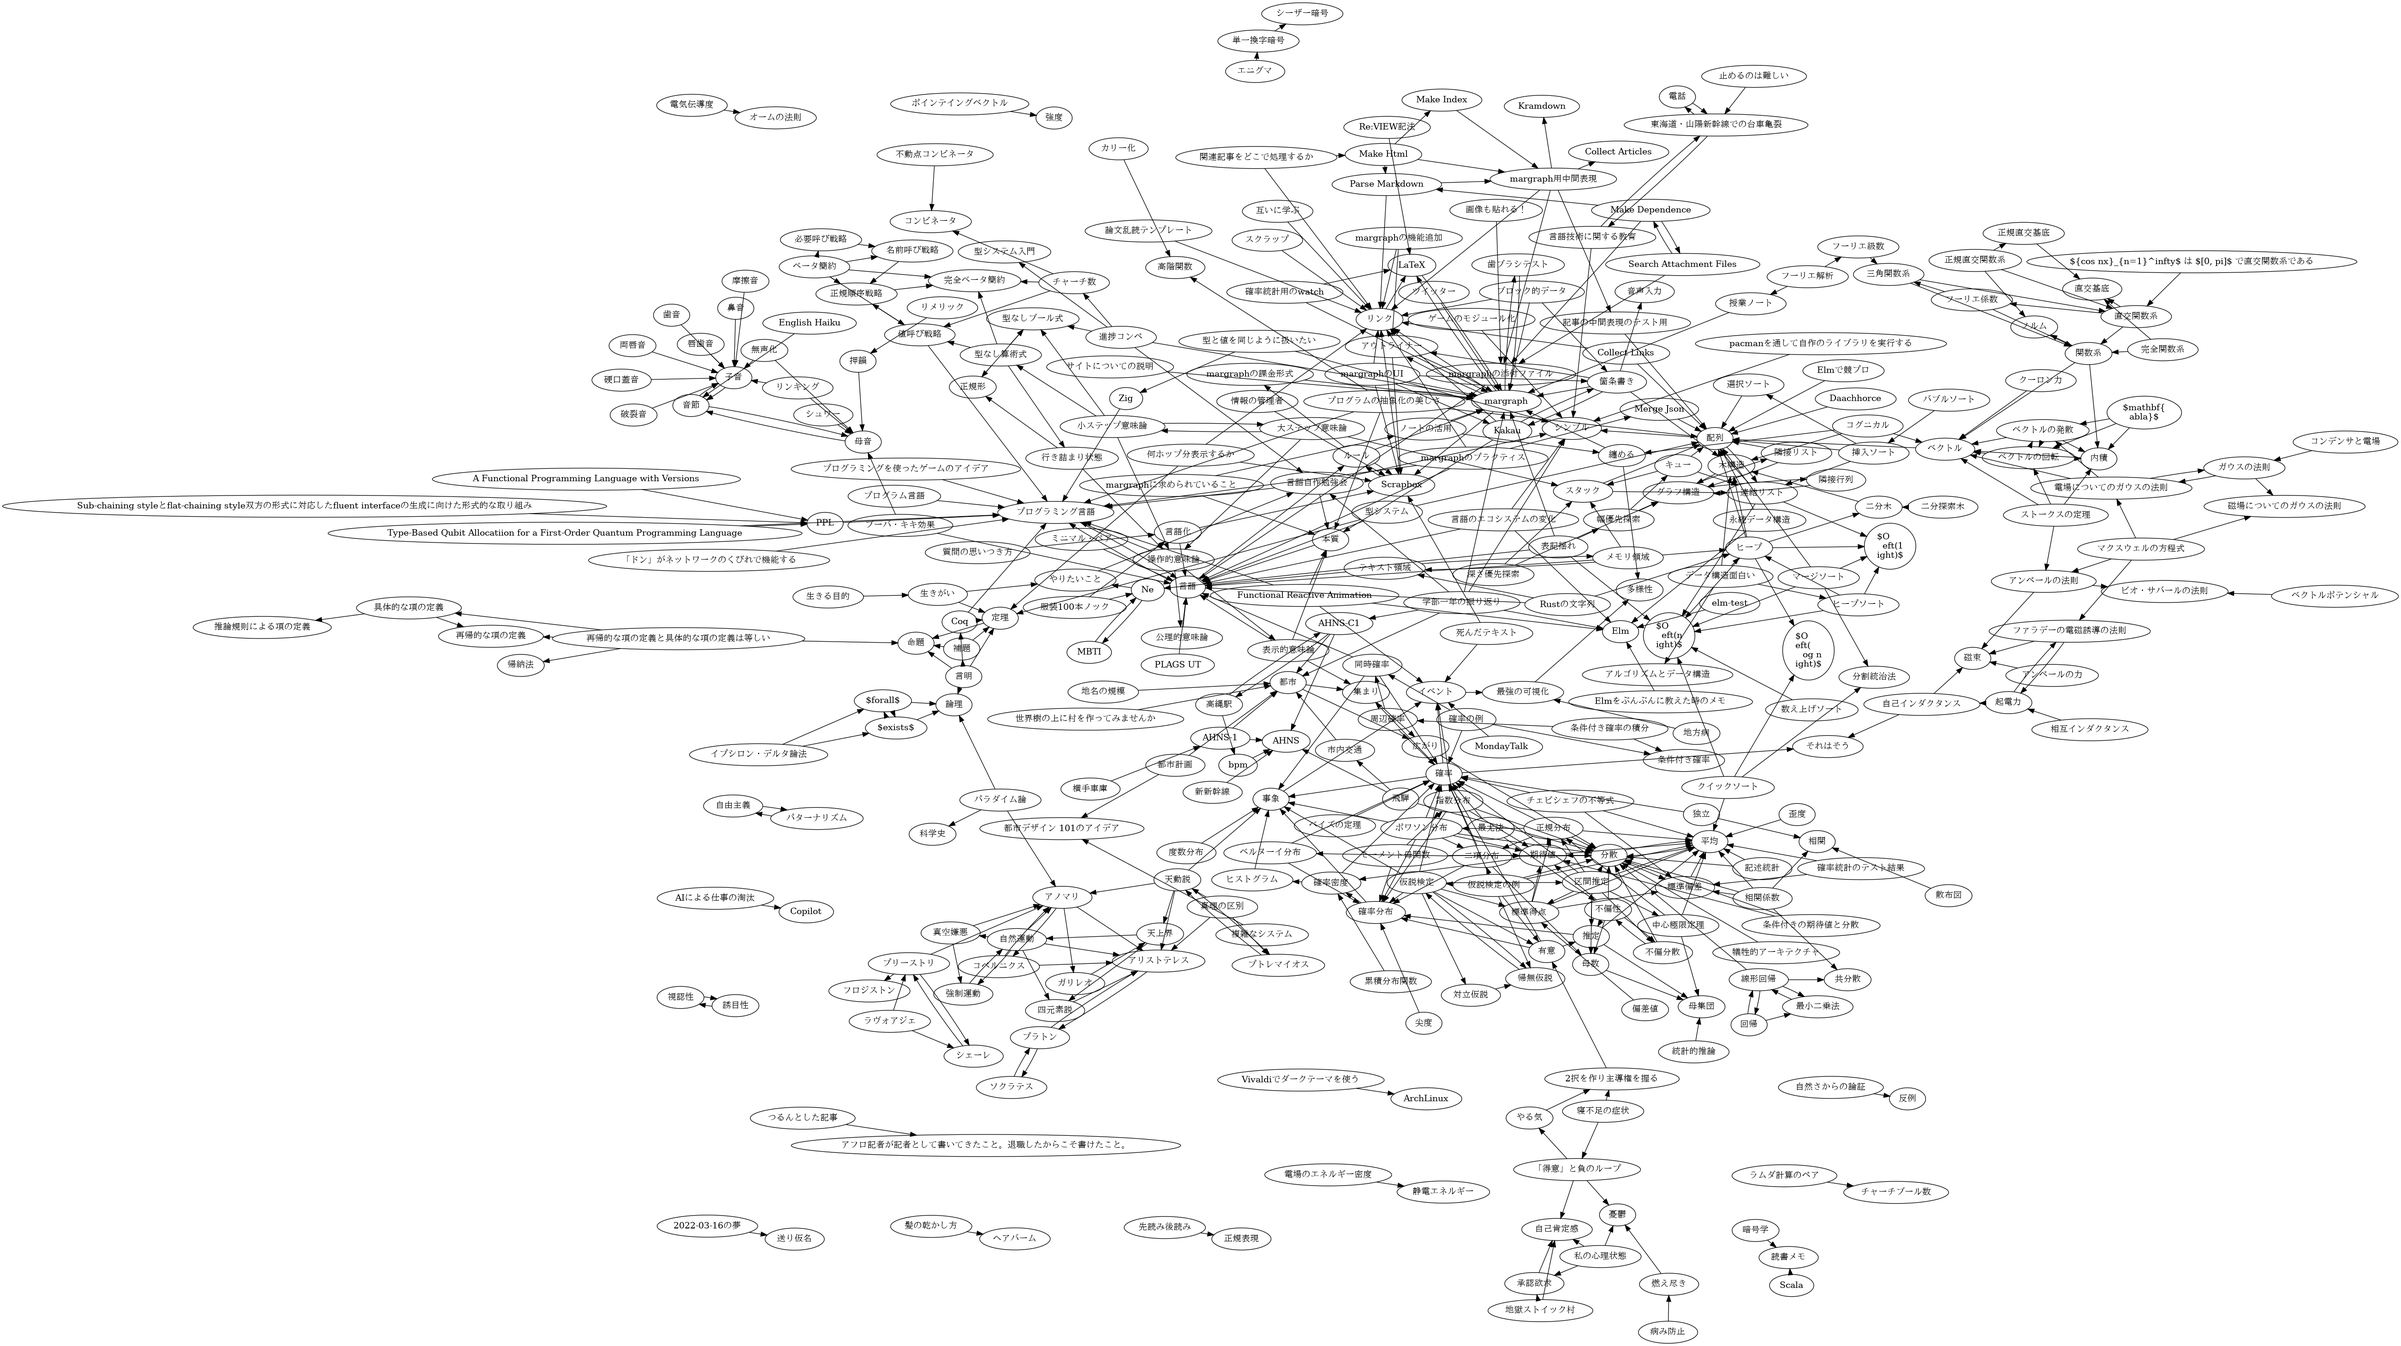
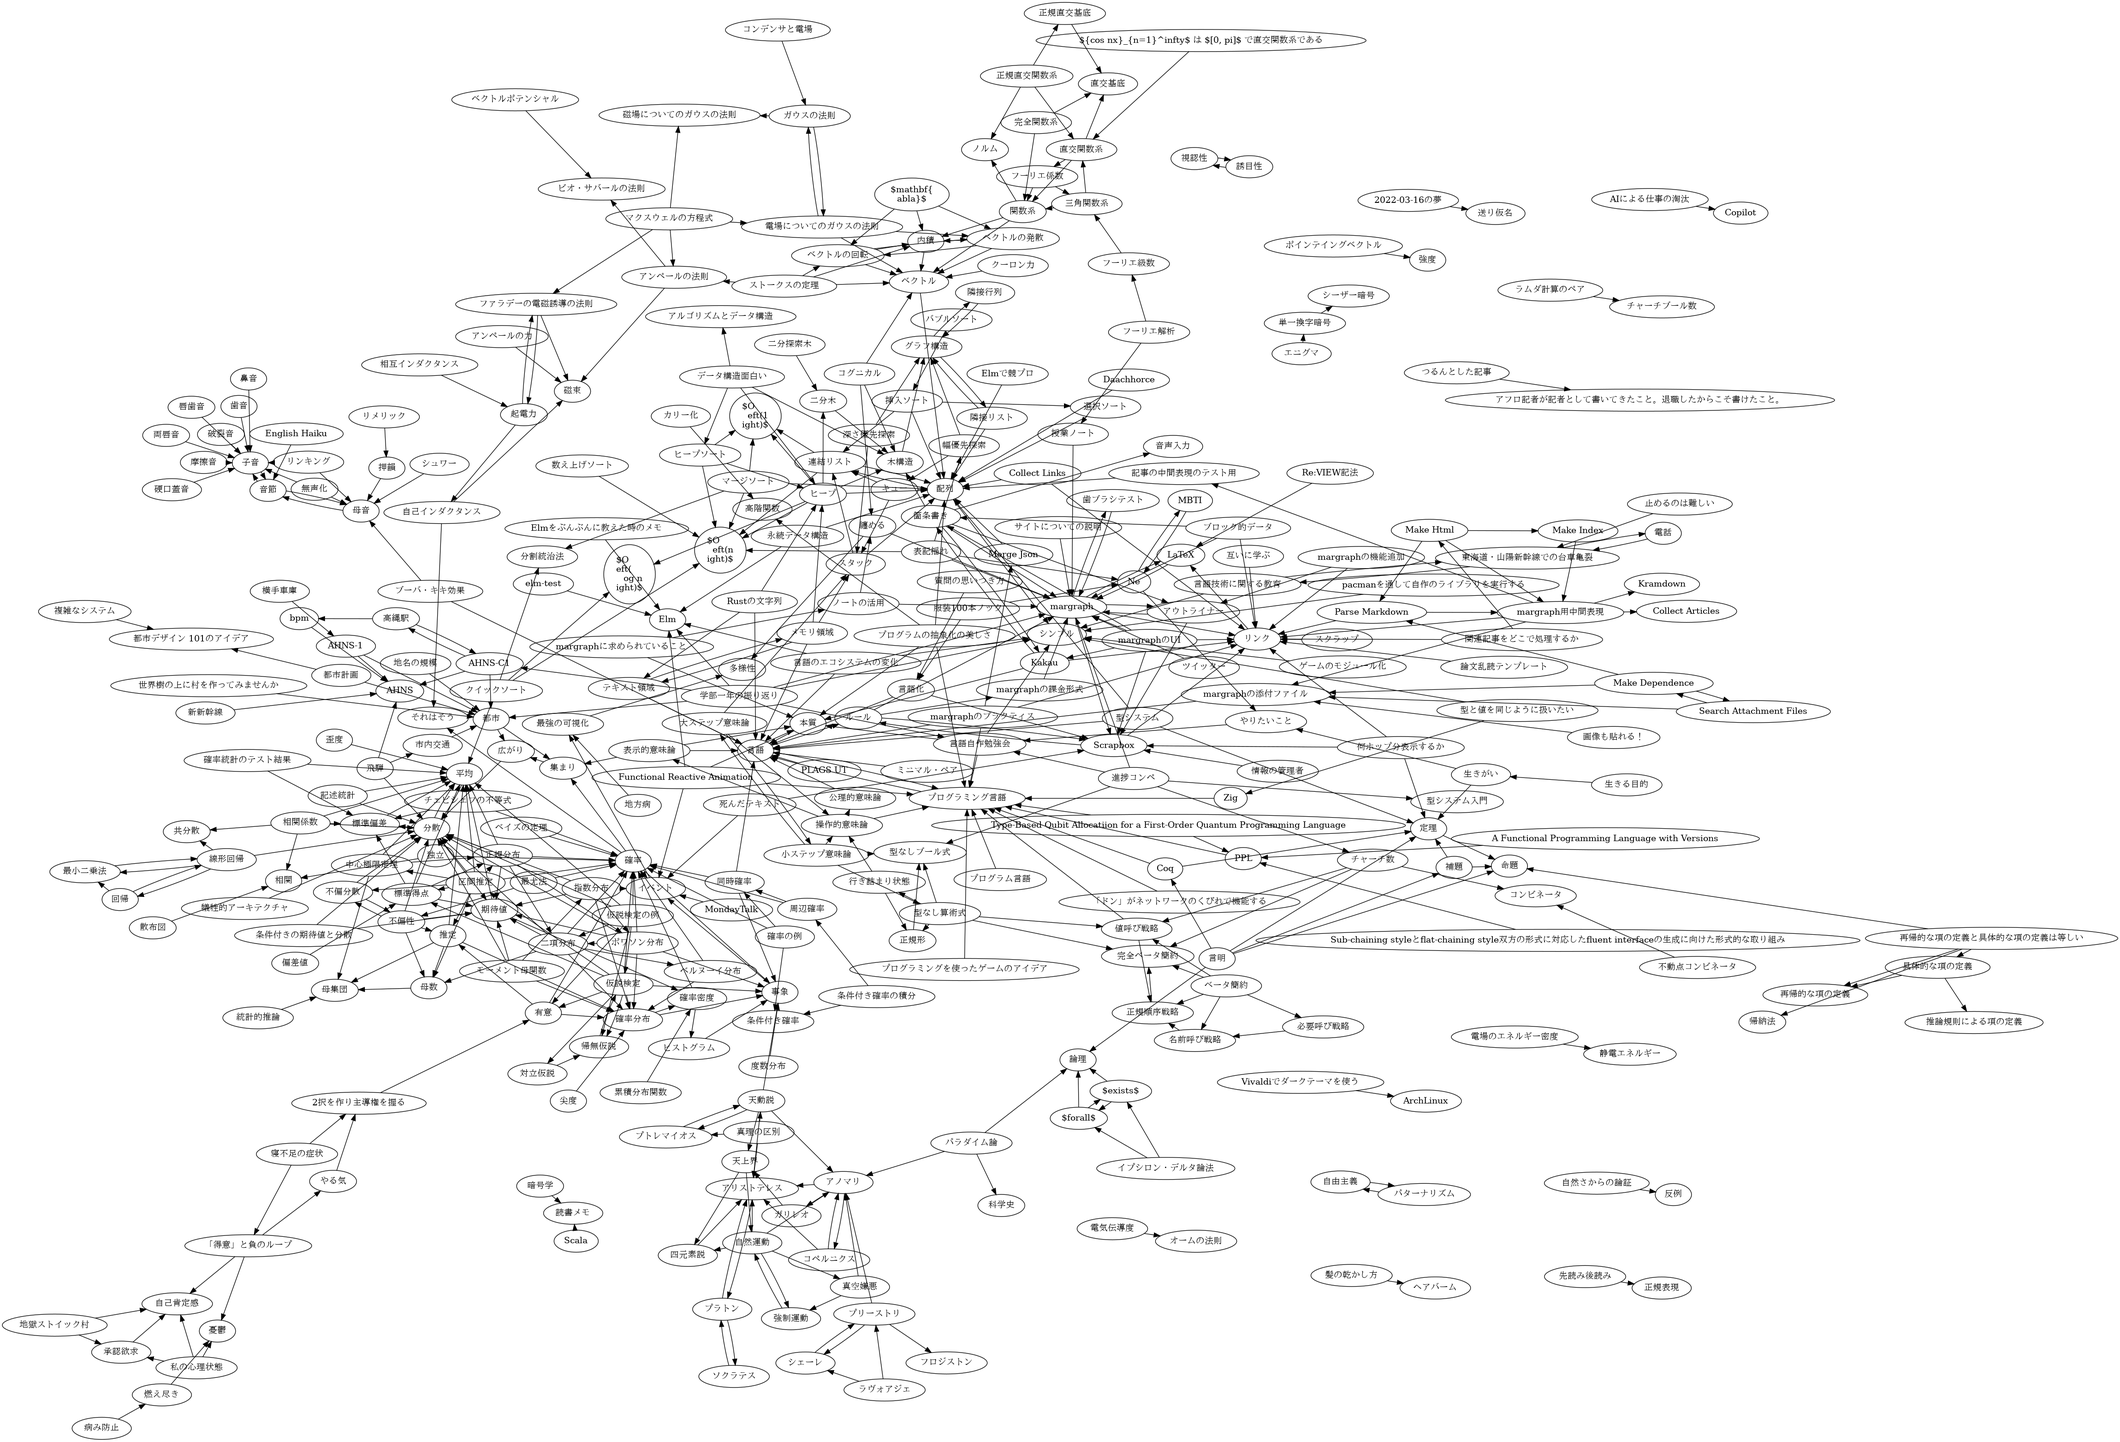
deploy: 2fca6c293e76e9450db2f3d024d4b272a923cc58

diff --git a/other/margraph-edit.html b/other/margraph-edit.html
@@ -7,7 +7,7 @@
     <link rel="stylesheet" href="https://cdn.jsdelivr.net/npm/bootstrap-dark-5@1.1.3/dist/css/bootstrap-nightfall.min.css" media="(prefers-color-scheme: dark)">
     <link rel="stylesheet" href="https://cdnjs.cloudflare.com/ajax/libs/highlight.js/11.3.1/styles/base16/ashes.min.css">
     <link rel="stylesheet" href="../style.css" type="text/css">
-    <title>Re:VIEW記法</title>
+    <title>margraphで編集したときに自動で反映するワンライナー</title>
     <meta NAME="robots" CONTENT="noindex,nofollow">
   </head>
   <body>
@@ -18,30 +18,32 @@
           
             <li class="breadcrumb-item"><a href="../index.html">margraph</a></li>
           
-            <li class="breadcrumb-item"><a href="../scraps/index.html">scraps</a></li>
+            <li class="breadcrumb-item"><a href="../other/index.html">other</a></li>
           
-          <li class="breadcrumb-item">Re:VIEW記法</li>
+          <li class="breadcrumb-item">margraphで編集したときに自動で反映するワンライナー</li>
         </ol>
       </div>
     </nav>
 
     <article class="container" style="max-width: 40em;">
 
-      <h1>Re:VIEW記法</h1>
+      <h1>margraphで編集したときに自動で反映するワンライナー</h1>
 
       
         <div class="contents">
         
             
-              <div>https://github.com/kmuto/review/blob/master/doc/format.ja.md</div>
+              <pre><code class="language-bash">dir=$(pwd); while true; do list=$(inotifywait . -e modify -q | awk '{print($3)}' | sed -r '$a index.md' | sed -r 's/(.+).md/public\/math\/fourier\/\1.html/' | sed -z -e 's/\n/ /'); cd ../../..; make -j $(echo $list); cd $dir; done
+</code></pre>
             
           
             
-              <div>本を作るための記法。Markdownに似た感じ。</div>
-            
-          
-            
-              <div>TeXや<a href="../other/latex.html">LaTeX</a>の機能をMarkdownの基本機能に追加したような感じ。</div>
+              <div><ul>
+  <li>inotifywaitで変更を監視して、それに合わせてmakeを実行する</li>
+  <li>パスの指定が雑だけど許して</li>
+  <li>シェルのワンライナー</li>
+</ul>
+</div>
             
           
         </div>
@@ -60,19 +62,19 @@
             <div class="col">
               
                 前の記事<br />
-                <a href="../scraps/question.html">質問の思いつき方</a>
+                <a href="../other/latex.html">LaTeX</a>
               
             </div>
             <div class="col">
               
                 目次<br />
-                <a href="../scraps/index.html">scraps</a>
+                <a href="../other/index.html">other</a>
               
             </div>
             <div class="col">
               
                 次の記事<br />
-                <a href="../scraps/sacrificial-architecture.html">犠牲的アーキテクチャ</a>
+                <a href="../other/miso-shiru.html">みそ汁</a>
               
             </div>
           </div>
@@ -81,43 +83,13 @@
 
       <div class="d-flex flex-row-reverse">
         
-          <button type="button" class="btn btn-outline-primary btn-sm" onclick="window.location.href='https://github.com/soukouki/margraph/edit/master/src/scraps/review.md';">Edit</button>
+          <button type="button" class="btn btn-outline-primary btn-sm" onclick="window.location.href='https://github.com/soukouki/margraph/edit/master/src/other/margraph-edit.md';">Edit</button>
         
         
       </div>
 
       
       <div class="link-network">
-        
-          <div class="row flex-nowrap overflow-auto">
-            <div class="col-4">
-              <div class="card h-100">
-                <div class="card-body">
-                  <h5 class="card-title fs-6"><a href="../other/latex.html">LaTeX</a></h5>
-                  <p class="card-text">- $\LaTeX$ 関連のメモ - 式の前後には空白を入れる...</p>
-                </div>
-              </div>
-            </div>
-            
-              <div class="col-4">
-                <div class="card h-100">
-                  <div class="card-body">
-                    <h5 class="card-title fs-6"><a href="../margraph/01-note.html">margraph</a></h5>
-                    <p class="card-text">named by sizumita - Scrapboxがgo...</p>
-                  </div>
-                </div>
-              </div>
-            
-              <div class="col-4">
-                <div class="card h-100">
-                  <div class="card-body">
-                    <h5 class="card-title fs-6"><a href="../margraph/margraph-junban.html">リンク</a></h5>
-                    <p class="card-text">- コードブロック中ではリンクしない方がいい   - LaTe...</p>
-                  </div>
-                </div>
-              </div>
-            
-          </div>
         
       </div>
       

diff --git a/other/latex.html b/other/latex.html
@@ -79,7 +79,7 @@
             <div class="col">
               
                 次の記事<br />
-                <a href="../other/miso-shiru.html">みそ汁</a>
+                <a href="../other/margraph-edit.html">margraphで編集したときに自動で反映するワンライナー</a>
               
             </div>
           </div>
@@ -360,18 +360,6 @@
                   </div>
                 </div>
               </div>
-            
-          </div>
-        
-          <div class="row flex-nowrap overflow-auto">
-            <div class="col-4">
-              <div class="card h-100">
-                <div class="card-body">
-                  <h5 class="card-title fs-6"><a href="../math/probability-statistics/-watch.html">確率統計用のwatch</a></h5>
-                  <p class="card-text">- watchコマンドで、ファイルを編集した直後にブラウザで見...</p>
-                </div>
-              </div>
-            </div>
             
           </div>
         

diff --git a/margraph/01-note.html b/margraph/01-note.html
@@ -400,18 +400,6 @@
             <div class="col-4">
               <div class="card h-100">
                 <div class="card-body">
-                  <h5 class="card-title fs-6"><a href="../math/probability-statistics/-watch.html">確率統計用のwatch</a></h5>
-                  <p class="card-text">- watchコマンドで、ファイルを編集した直後にブラウザで見...</p>
-                </div>
-              </div>
-            </div>
-            
-          </div>
-        
-          <div class="row flex-nowrap overflow-auto">
-            <div class="col-4">
-              <div class="card h-100">
-                <div class="card-body">
                   <h5 class="card-title fs-6"><a href="../other/gather.html">纏める</a></h5>
                   <p class="card-text">- 多様性のあるものを集めて使えるようにすること - 纏めるこ...</p>
                 </div>

diff --git a/lectures/class-note.html b/lectures/class-note.html
@@ -182,15 +182,6 @@
               <div class="col-4">
                 <div class="card h-100">
                   <div class="card-body">
-                    <h5 class="card-title fs-6"><a href="../math/probability-statistics/-watch.html">確率統計用のwatch</a></h5>
-                    <p class="card-text">- watchコマンドで、ファイルを編集した直後にブラウザで見...</p>
-                  </div>
-                </div>
-              </div>
-            
-              <div class="col-4">
-                <div class="card h-100">
-                  <div class="card-body">
                     <h5 class="card-title fs-6"><a href="../other/gather.html">纏める</a></h5>
                     <p class="card-text">- 多様性のあるものを集めて使えるようにすること - 纏めるこ...</p>
                   </div>

diff --git a/long-tweets/2021-11-02.html b/long-tweets/2021-11-02.html
@@ -327,15 +327,6 @@
               <div class="col-4">
                 <div class="card h-100">
                   <div class="card-body">
-                    <h5 class="card-title fs-6"><a href="../math/probability-statistics/-watch.html">確率統計用のwatch</a></h5>
-                    <p class="card-text">- watchコマンドで、ファイルを編集した直後にブラウザで見...</p>
-                  </div>
-                </div>
-              </div>
-            
-              <div class="col-4">
-                <div class="card h-100">
-                  <div class="card-body">
                     <h5 class="card-title fs-6"><a href="../other/gather.html">纏める</a></h5>
                     <p class="card-text">- 多様性のあるものを集めて使えるようにすること - 纏めるこ...</p>
                   </div>

diff --git a/margraph/block-ui.html b/margraph/block-ui.html
@@ -220,15 +220,6 @@
               <div class="col-4">
                 <div class="card h-100">
                   <div class="card-body">
-                    <h5 class="card-title fs-6"><a href="../math/probability-statistics/-watch.html">確率統計用のwatch</a></h5>
-                    <p class="card-text">- watchコマンドで、ファイルを編集した直後にブラウザで見...</p>
-                  </div>
-                </div>
-              </div>
-            
-              <div class="col-4">
-                <div class="card h-100">
-                  <div class="card-body">
                     <h5 class="card-title fs-6"><a href="../other/gather.html">纏める</a></h5>
                     <p class="card-text">- 多様性のあるものを集めて使えるようにすること - 纏めるこ...</p>
                   </div>

diff --git a/margraph/margraph-kakin.html b/margraph/margraph-kakin.html
@@ -237,15 +237,6 @@
               <div class="col-4">
                 <div class="card h-100">
                   <div class="card-body">
-                    <h5 class="card-title fs-6"><a href="../math/probability-statistics/-watch.html">確率統計用のwatch</a></h5>
-                    <p class="card-text">- watchコマンドで、ファイルを編集した直後にブラウザで見...</p>
-                  </div>
-                </div>
-              </div>
-            
-              <div class="col-4">
-                <div class="card h-100">
-                  <div class="card-body">
                     <h5 class="card-title fs-6"><a href="../other/gather.html">纏める</a></h5>
                     <p class="card-text">- 多様性のあるものを集めて使えるようにすること - 纏めるこ...</p>
                   </div>

diff --git a/margraph/margraph-ui.html b/margraph/margraph-ui.html
@@ -383,15 +383,6 @@
               <div class="col-4">
                 <div class="card h-100">
                   <div class="card-body">
-                    <h5 class="card-title fs-6"><a href="../math/probability-statistics/-watch.html">確率統計用のwatch</a></h5>
-                    <p class="card-text">- watchコマンドで、ファイルを編集した直後にブラウザで見...</p>
-                  </div>
-                </div>
-              </div>
-            
-              <div class="col-4">
-                <div class="card h-100">
-                  <div class="card-body">
                     <h5 class="card-title fs-6"><a href="../other/gather.html">纏める</a></h5>
                     <p class="card-text">- 多様性のあるものを集めて使えるようにすること - 纏めるこ...</p>
                   </div>

diff --git a/other/hyoki-yure.html b/other/hyoki-yure.html
@@ -211,15 +211,6 @@
               <div class="col-4">
                 <div class="card h-100">
                   <div class="card-body">
-                    <h5 class="card-title fs-6"><a href="../math/probability-statistics/-watch.html">確率統計用のwatch</a></h5>
-                    <p class="card-text">- watchコマンドで、ファイルを編集した直後にブラウザで見...</p>
-                  </div>
-                </div>
-              </div>
-            
-              <div class="col-4">
-                <div class="card h-100">
-                  <div class="card-body">
                     <h5 class="card-title fs-6"><a href="../other/gather.html">纏める</a></h5>
                     <p class="card-text">- 多様性のあるものを集めて使えるようにすること - 纏めるこ...</p>
                   </div>

diff --git a/other/kajou.html b/other/kajou.html
@@ -200,15 +200,6 @@
               <div class="col-4">
                 <div class="card h-100">
                   <div class="card-body">
-                    <h5 class="card-title fs-6"><a href="../math/probability-statistics/-watch.html">確率統計用のwatch</a></h5>
-                    <p class="card-text">- watchコマンドで、ファイルを編集した直後にブラウザで見...</p>
-                  </div>
-                </div>
-              </div>
-            
-              <div class="col-4">
-                <div class="card h-100">
-                  <div class="card-body">
                     <h5 class="card-title fs-6"><a href="../other/gather.html">纏める</a></h5>
                     <p class="card-text">- 多様性のあるものを集めて使えるようにすること - 纏めるこ...</p>
                   </div>

diff --git a/other/outliner.html b/other/outliner.html
@@ -209,15 +209,6 @@
               <div class="col-4">
                 <div class="card h-100">
                   <div class="card-body">
-                    <h5 class="card-title fs-6"><a href="../math/probability-statistics/-watch.html">確率統計用のwatch</a></h5>
-                    <p class="card-text">- watchコマンドで、ファイルを編集した直後にブラウザで見...</p>
-                  </div>
-                </div>
-              </div>
-            
-              <div class="col-4">
-                <div class="card h-100">
-                  <div class="card-body">
                     <h5 class="card-title fs-6"><a href="../other/gather.html">纏める</a></h5>
                     <p class="card-text">- 多様性のあるものを集めて使えるようにすること - 纏めるこ...</p>
                   </div>

diff --git a/other/rule.html b/other/rule.html
@@ -255,15 +255,6 @@
               <div class="col-4">
                 <div class="card h-100">
                   <div class="card-body">
-                    <h5 class="card-title fs-6"><a href="../math/probability-statistics/-watch.html">確率統計用のwatch</a></h5>
-                    <p class="card-text">- watchコマンドで、ファイルを編集した直後にブラウザで見...</p>
-                  </div>
-                </div>
-              </div>
-            
-              <div class="col-4">
-                <div class="card h-100">
-                  <div class="card-body">
                     <h5 class="card-title fs-6"><a href="../other/gather.html">纏める</a></h5>
                     <p class="card-text">- 多様性のあるものを集めて使えるようにすること - 纏めるこ...</p>
                   </div>
